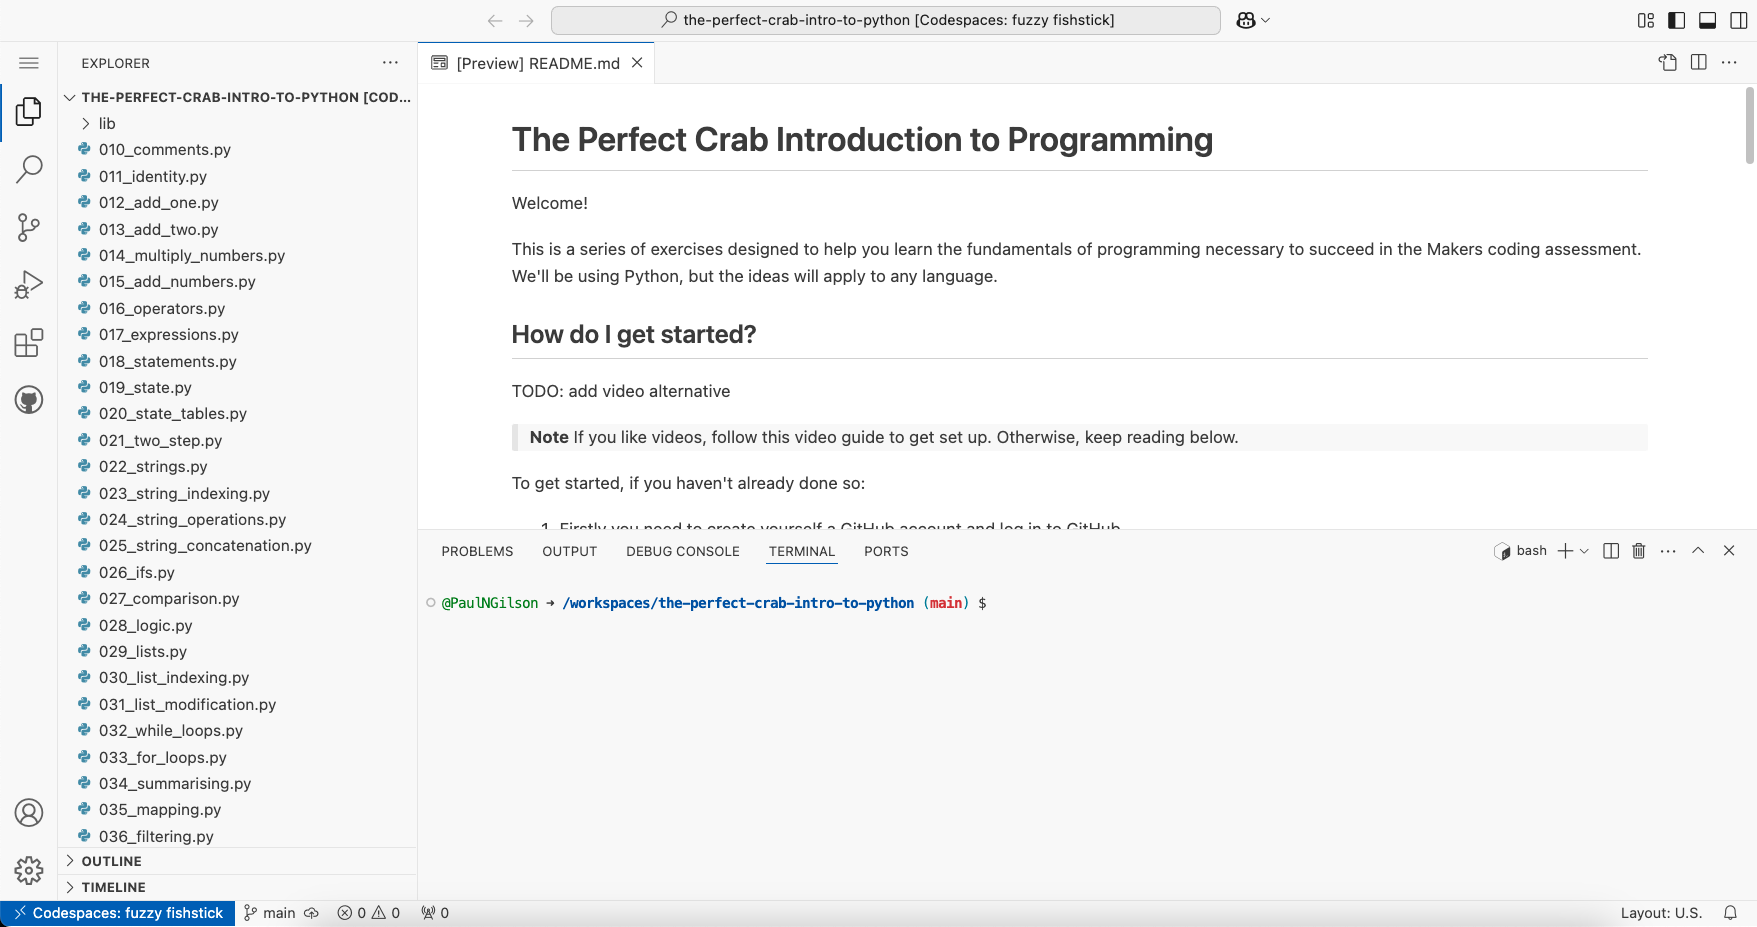
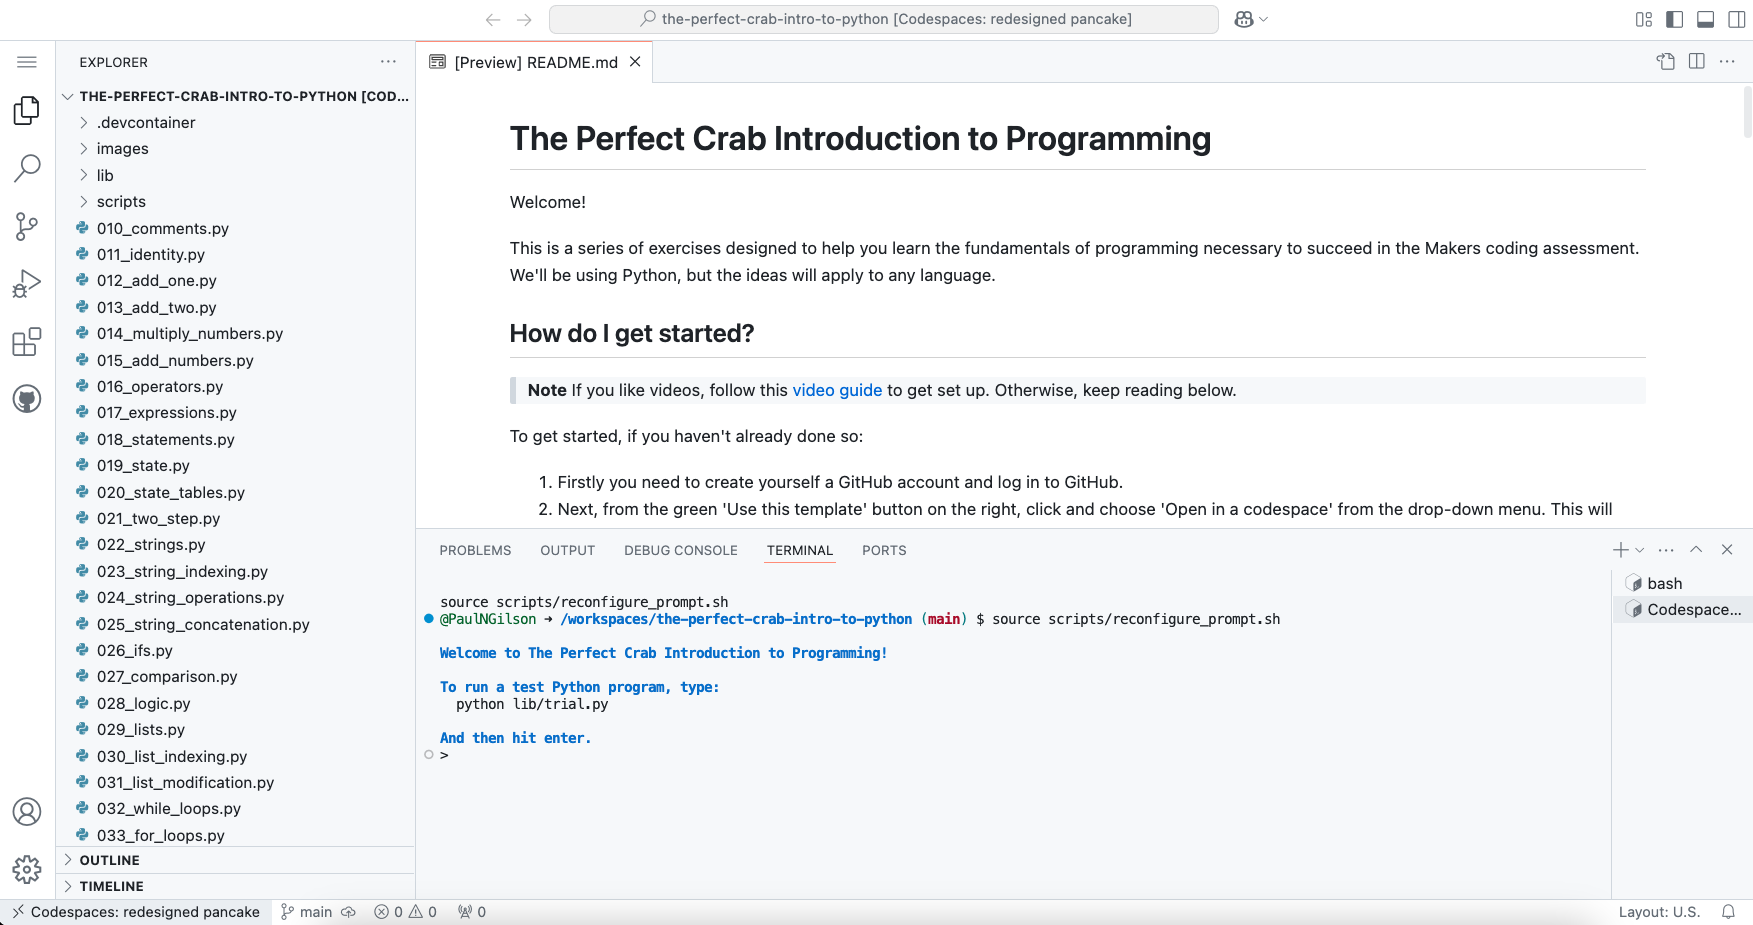
update IDE image

diff --git a/README.md b/README.md
@@ -34,7 +34,7 @@ However only do this if you are sure you know what you're doing.
 ## How do I use GitHub Codespaces?
 
 Once you have opened your new codespace, you will see an interface which we will
-call the IDE. It should look like this:
+call the IDE. It should look like this (although may have a different colour):
 
 ![A screenshot of the interface with the files on the left, the code in the middle, and the terminal at the bottom.](images/codespace-interface.png)
 
